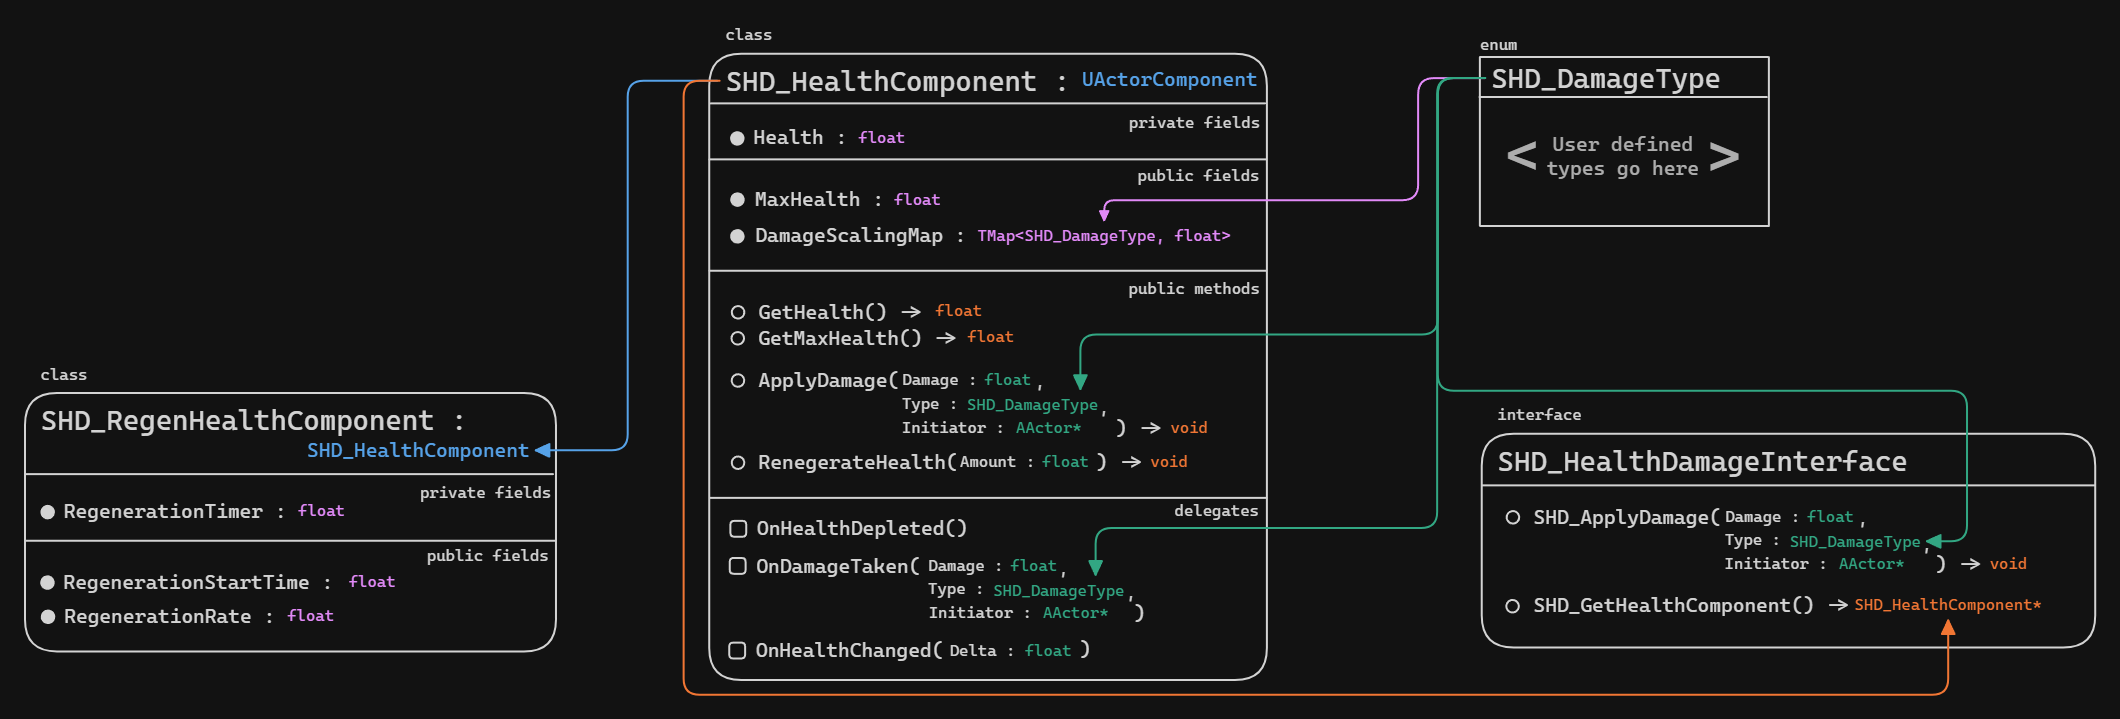
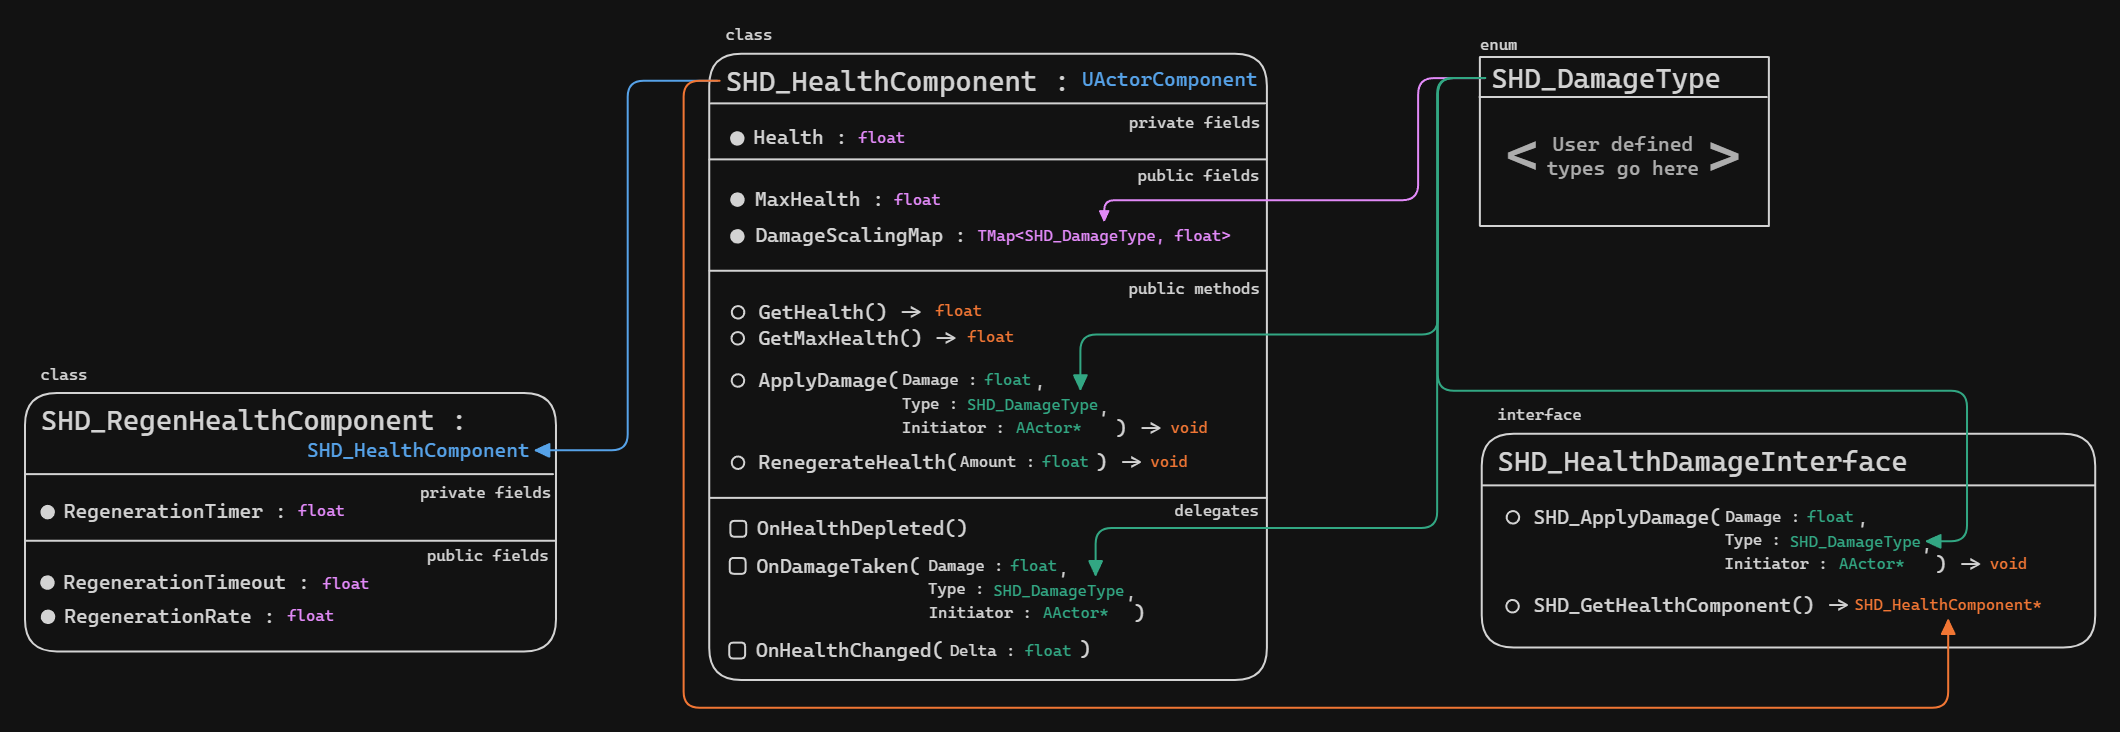
[DOCS] Renamed RegenerationStartTime to RegenerationTimeout in code design

diff --git a/Documentation/Excalidraw/Code Design.md b/Documentation/Excalidraw/Code Design.md
@@ -100,7 +100,7 @@ RegenerationTimer : ^pPPOyYvV
 
 float ^RGZBl1XD
 
-RegenerationStartTime : ^gPtD32qN
+RegenerationTimeout : ^gPtD32qN
 
 float ^pKFcCMmB
 
@@ -359,180 +359,180 @@ RBpoPeYBDYA9EmYEMJAytRB4AYABACEAV86TKf1onWG14hUlXM3+B5cf8GWBLkqHGEdbnTYF5UOIRFVy
 
[1 lines of base64/hex data omitted]
 
[2 lines of base64/hex data omitted]
 
[2 lines of base64/hex data omitted]
 
[2 lines of base64/hex data omitted]
 
[2 lines of base64/hex data omitted]
 
[2 lines of base64/hex data omitted]
 
[2 lines of base64/hex data omitted]
 
[2 lines of base64/hex data omitted]
 
[2 lines of base64/hex data omitted]
 
[2 lines of base64/hex data omitted]
 
[2 lines of base64/hex data omitted]
 
[2 lines of base64/hex data omitted]
 
[2 lines of base64/hex data omitted]
 
[2 lines of base64/hex data omitted]
 
[2 lines of base64/hex data omitted]
 
[2 lines of base64/hex data omitted]
 
[2 lines of base64/hex data omitted]
 
[2 lines of base64/hex data omitted]
 
[2 lines of base64/hex data omitted]
 
[2 lines of base64/hex data omitted]
 
[2 lines of base64/hex data omitted]
 
[2 lines of base64/hex data omitted]
 
[2 lines of base64/hex data omitted]
 
[2 lines of base64/hex data omitted]
 
[2 lines of base64/hex data omitted]
 
[2 lines of base64/hex data omitted]
 
[2 lines of base64/hex data omitted]
 
[2 lines of base64/hex data omitted]
 
[2 lines of base64/hex data omitted]
 
[2 lines of base64/hex data omitted]
 
[2 lines of base64/hex data omitted]
 
[2 lines of base64/hex data omitted]
 
[2 lines of base64/hex data omitted]
 
[2 lines of base64/hex data omitted]
 
[2 lines of base64/hex data omitted]
 
[2 lines of base64/hex data omitted]
 
[2 lines of base64/hex data omitted]
 
[2 lines of base64/hex data omitted]
 
[2 lines of base64/hex data omitted]
 
[2 lines of base64/hex data omitted]
 
[2 lines of base64/hex data omitted]
 
[2 lines of base64/hex data omitted]
 
[2 lines of base64/hex data omitted]
 
[2 lines of base64/hex data omitted]
 
[2 lines of base64/hex data omitted]
 
[2 lines of base64/hex data omitted]
 
[2 lines of base64/hex data omitted]
 
[2 lines of base64/hex data omitted]
 
[2 lines of base64/hex data omitted]
 
[2 lines of base64/hex data omitted]
 
[2 lines of base64/hex data omitted]
 
[2 lines of base64/hex data omitted]
 
[2 lines of base64/hex data omitted]
 
[2 lines of base64/hex data omitted]
 
[2 lines of base64/hex data omitted]
 
[2 lines of base64/hex data omitted]
 
[2 lines of base64/hex data omitted]
 
[2 lines of base64/hex data omitted]
 
[2 lines of base64/hex data omitted]
 
[2 lines of base64/hex data omitted]
 
[2 lines of base64/hex data omitted]
 
[2 lines of base64/hex data omitted]
 
[2 lines of base64/hex data omitted]
 
[2 lines of base64/hex data omitted]
 
[2 lines of base64/hex data omitted]
 
[2 lines of base64/hex data omitted]
 
[2 lines of base64/hex data omitted]
 
[2 lines of base64/hex data omitted]
 
[2 lines of base64/hex data omitted]
 
[2 lines of base64/hex data omitted]
 
[2 lines of base64/hex data omitted]
 
[2 lines of base64/hex data omitted]
 
[2 lines of base64/hex data omitted]
 
[2 lines of base64/hex data omitted]
 
[2 lines of base64/hex data omitted]
 
[2 lines of base64/hex data omitted]
 
[2 lines of base64/hex data omitted]
 
[2 lines of base64/hex data omitted]
 
[2 lines of base64/hex data omitted]
 
[2 lines of base64/hex data omitted]
 
[2 lines of base64/hex data omitted]
 
[2 lines of base64/hex data omitted]
 
[2 lines of base64/hex data omitted]
 
[2 lines of base64/hex data omitted]
 
[2 lines of base64/hex data omitted]
 
[2 lines of base64/hex data omitted]
 
[2 lines of base64/hex data omitted]
 
[2 lines of base64/hex data omitted]
 
[2 lines of base64/hex data omitted]
 ```
 %%
